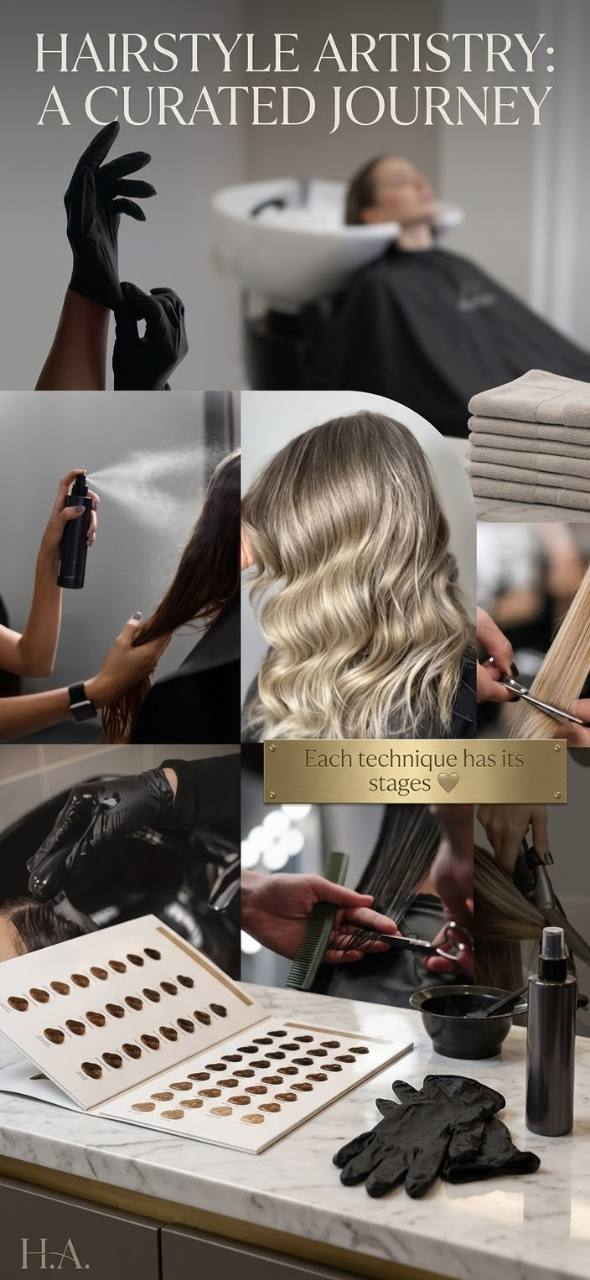
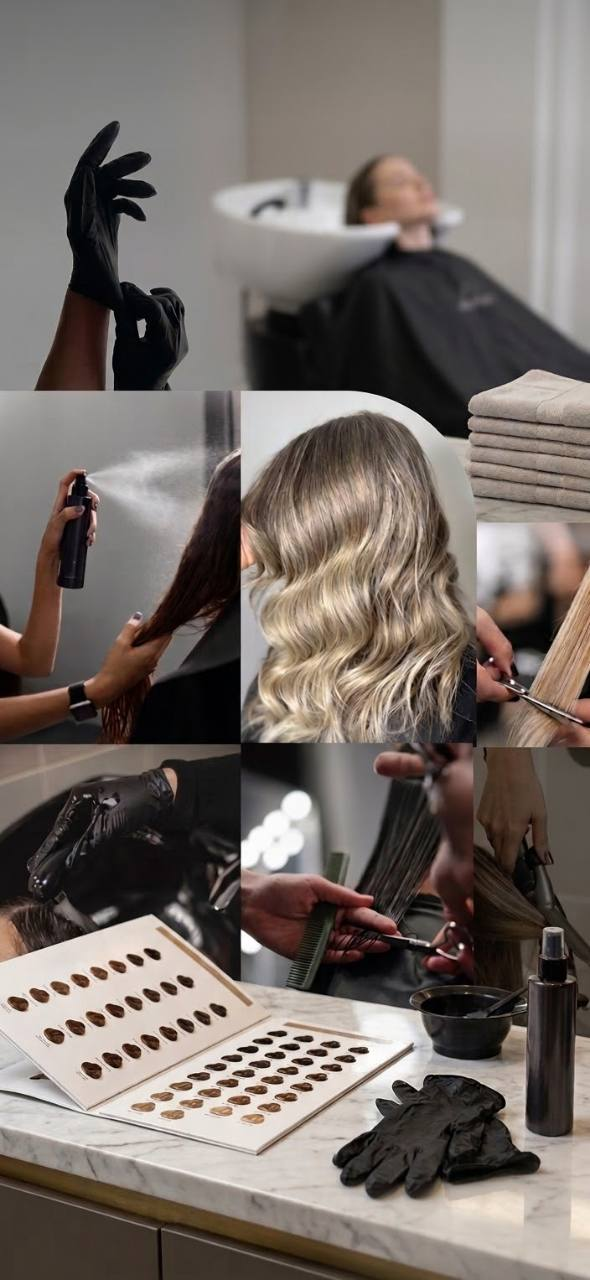
Sustituye la imagen de la sección de reserva

diff --git a/index.html b/index.html
@@ -12,7 +12,7 @@
   <link href="https://fonts.googleapis.com/css2?family=Instrument+Sans:wdth,wght@75..100,400..700&family=Newsreader:ital,opsz,wght@1,6..72,400&display=swap" rel="stylesheet">
   
   <!-- Styles -->
-  <link rel="stylesheet" href="styles.css?v=reservation-contact-spacing">
+  <link rel="stylesheet" href="styles.css?v=reservation-image-2">
 </head>
 <body>
 
@@ -142,7 +142,7 @@
     <section id="reserva" class="section-reserva">
       <div class="container">
         <figure class="reserva-visual scroll-reveal">
-          <img src="media/hair-style-journey.jpg" alt="Técnicas y cuidado profesional del cabello en Stylo">
+          <img src="media/hair-style-journey.jpg?v=2" alt="Técnicas y cuidado profesional del cabello en Stylo">
         </figure>
 
         <div class="section-header scroll-reveal">
